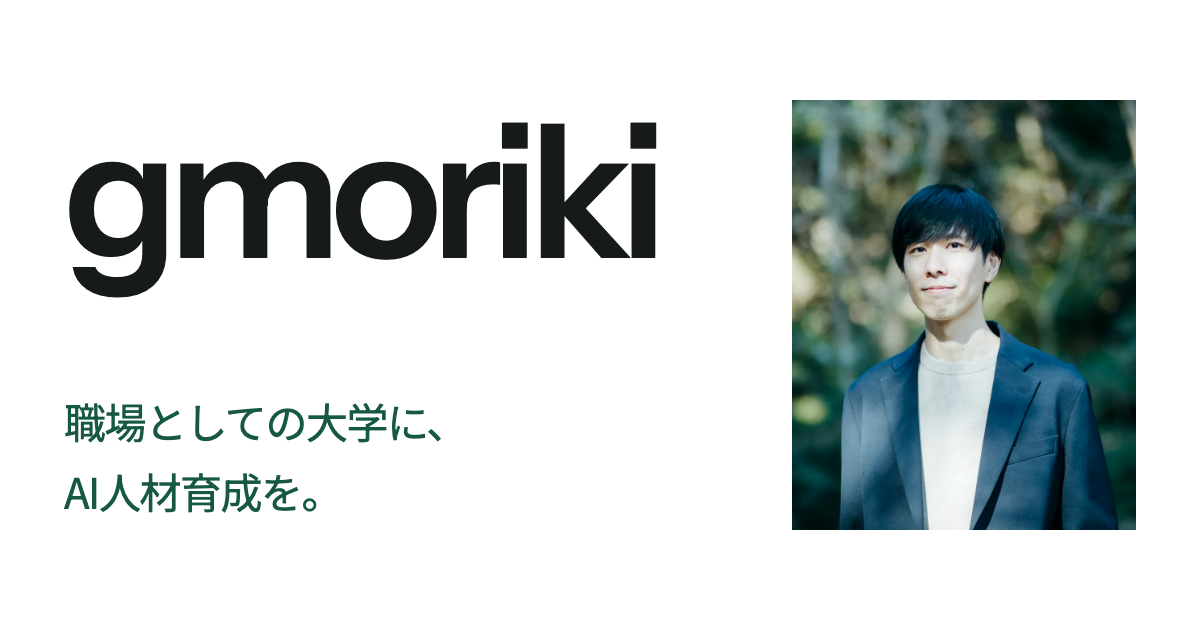
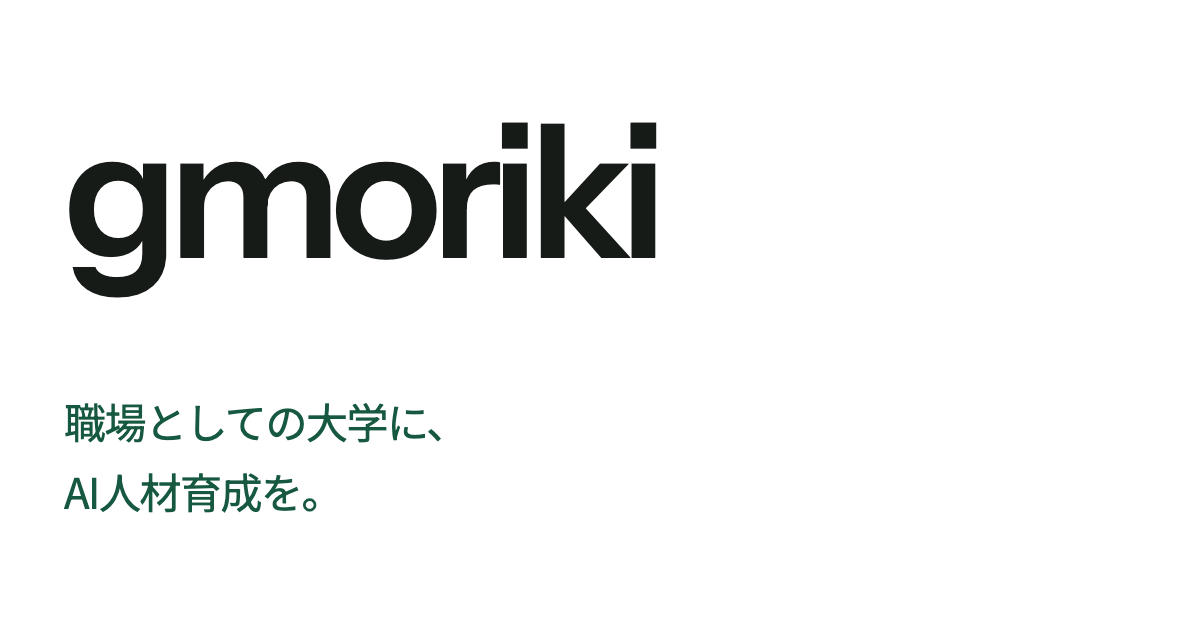
fix: align social previews with photo-free hero

Changed region(s): [[0.6475, 0.1508, 0.9558, 0.8444]]

diff --git a/vite.site.config.ts b/vite.site.config.ts
@@ -1,4 +1,5 @@
 import react from "@vitejs/plugin-react";
+import { createHash } from "node:crypto";
 import { readFileSync } from "node:fs";
 import path from "node:path";
 import { defineConfig } from "vite";
@@ -6,6 +7,17 @@ import manifest from "./site-manifest.json";
 
 const project = import.meta.dirname;
 const root = path.resolve(project, "client/site");
+const socialImageSource = readFileSync(
+  path.resolve(project, "client/public", manifest.socialImage.source)
+);
+const socialImageHash = createHash("sha256")
+  .update(socialImageSource)
+  .digest("hex")
+  .slice(0, 12);
+const socialImageFile = manifest.socialImage.source.replace(
+  /\.png$/,
+  `-${socialImageHash}.png`
+);
 
 export default defineConfig({
   root,
@@ -26,7 +38,7 @@ export default defineConfig({
         const page = manifest.pages.find(item => item.entry === entry);
         if (!page) return html;
         const url = manifest.origin + page.path;
-        const image = manifest.origin + "/redesign/social-card.png";
+        const image = `${manifest.origin}/${socialImageFile}`;
         return {
           html: html.replace(
             /<title>.*?<\/title>/s,
@@ -50,10 +62,10 @@ export default defineConfig({
               "og:title": page.title,
               "og:description": page.description,
               "og:image": image,
+              "og:image:type": "image/png",
               "og:image:width": "1200",
               "og:image:height": "630",
-              "og:image:alt":
-                "gmoriki — 職場としての大学に、AI人材育成を。森木銀河のポートレート",
+              "og:image:alt": manifest.socialImage.alt,
             }).map(([property, content]) => ({
               tag: "meta",
               attrs: { property, content },
@@ -63,8 +75,7 @@ export default defineConfig({
               "twitter:title": page.title,
               "twitter:description": page.description,
               "twitter:image": image,
-              "twitter:image:alt":
-                "gmoriki — 職場としての大学に、AI人材育成を。森木銀河のポートレート",
+              "twitter:image:alt": manifest.socialImage.alt,
             }).map(([name, content]) => ({
               tag: "meta",
               attrs: { name, content },
@@ -73,6 +84,12 @@ export default defineConfig({
         };
       },
       generateBundle() {
+        // The original path remains available for previously shared links.
+        this.emitFile({
+          type: "asset",
+          fileName: socialImageFile,
+          source: socialImageSource,
+        });
         for (const fileName of manifest.assets) {
           this.emitFile({
             type: "asset",

diff --git a/DEPLOYMENT.md b/DEPLOYMENT.md
@@ -11,6 +11,8 @@
 
 本番入口は `client/site/` と `client/src/public-site.tsx`、ビルド設定は `vite.site.config.ts`。公開画像とページ情報は `site-manifest.json` に限定して管理する。出力は `dist/public/`。比較ページ、制作資料、元画像、ログは配信対象に含めない。
 
+共有画像は `site-manifest.json` の `socialImage` で管理する。ビルド時に画像内容のハッシュを付けたURLを生成し、全ページのOGP・X用メタ情報に設定する。旧URLも同じ新画像を配信する。トップの写真やロゴを変更するときは、共有画像とその説明文も合わせて確認する。プロフィール本文の写真は共有画像とは別に扱う。
+
 従来の `/works` は `/works/` へ移動する。旧Worksの5種類の `#section-*`、トップの `#expertise`、旧404が生成した `/?redirect=/works` を新ページの対応箇所へ案内する。存在しないURLは404とし、トップへの一律転送はしない。
 
 ## ローカル検証
